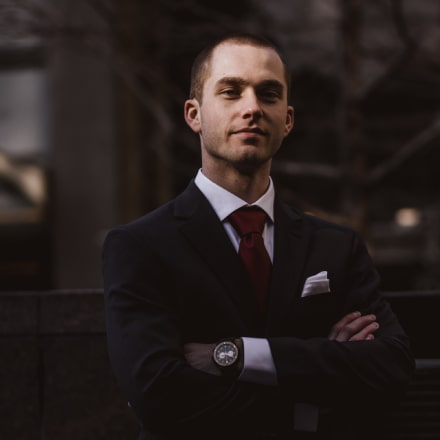
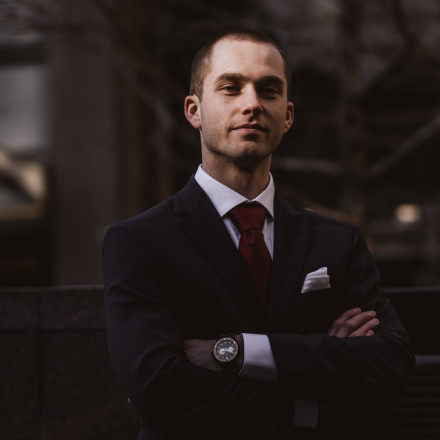
modification de toutes les photos du site en webp avec alternative jpg

diff --git a/index.html b/index.html
@@ -37,23 +37,23 @@
 		<div class="carousel-inner">
 			<div class="carousel-item active">
 				<picture>
-					<source srcset="./assets/images/slider/webp/nina-carducci-photographe-1440x665px.webp" type="image/webp">
-					<source srcset="./assets/images/slider/min/nina-carducci-photographe-1440x665px-min.jpg" type="image/jpg">
-					<img src="./assets/images/slider/min/nina-carducci-photographe-1440x665px-min.jpg" alt="Nina Carducci photographe" title="Slider cover">
+					<source srcset="./assets/images/slider/webp/nina-carducci-photographe-1920x665px.webp" type="image/webp">
+					<source srcset="./assets/images/slider/min/nina-carducci-photographe-1920x665px-min.jpg" type="image/jpg">
+					<img src="./assets/images/slider/min/nina-carducci-photographe-1920x665px-min.jpg" alt="Nina Carducci photographe" title="Slider cover">
 				</picture>			
 			</div>
 			<div class="carousel-item">
 				<picture>
-					<source srcset="./assets/images/slider/webp/photo-festival-nina-carducci-1440x665px.webp" type="image/webp">
-					<source srcset="./assets/images/slider/min/photo-festival-nina-carducci-1440x665px-min.jpg" type="image/jpg">
-					<img src="./assets/images/slider/min/photo-festival-nina-carducci-1440x665px-min.jpg" alt="Portrait festival - Nina Carducci photographe" title="Slider portrait festival">
+					<source srcset="./assets/images/slider/webp/photo-festival-nina-carducci-1920x665px.webp" type="image/webp">
+					<source srcset="./assets/images/slider/min/photo-festival-nina-carducci-1920x665px-min.jpg" type="image/jpg">
+					<img src="./assets/images/slider/min/photo-festival-nina-carducci-1920x665px-min.jpg" alt="Portrait festival - Nina Carducci photographe" title="Slider portrait festival">
 				</picture>			
 			</div>
 			<div class="carousel-item">
 				<picture>
-					<source srcset="./assets/images/slider/webp/photo-de-mariage-nina-carducci-1440x665px.webp" type="image/webp">
-					<source srcset="./assets/images/slider/min/photo-de-mariage-nina-carducci-1440x665px-min.jpg">
-					<img src="./assets/images/slider/min/photo-de-mariage-nina-carducci-1440x665px-min.jpg" alt="Photo de mariage - Nina Carducci photographe" title="Slider photo de mariage">
+					<source srcset="./assets/images/slider/webp/photo-de-mariage-nina-carducci-1920x665px.webp" type="image/webp">
+					<source srcset="./assets/images/slider/min/photo-de-mariage-nina-carducci-1920x665px-min.jpg">
+					<img src="./assets/images/slider/min/photo-de-mariage-nina-carducci-1920x665px-min.jpg" alt="Photo de mariage - Nina Carducci photographe" title="Slider photo de mariage">
 				</picture>			
 			</div>
 		</div>
@@ -86,15 +86,61 @@
 	<h3 class="title">Portfolio</h3>
 	<div class="container py-3">
 		<div class="gallery" style="display: none">
-			<img data-gallery-tag="Concert" class="gallery-item" src="./assets/images/gallery/concerts/aaron-paul-wnX-fXzB6Cw-unsplash.jpg"/>
-			<img data-gallery-tag="Entreprises" class="gallery-item" src="./assets/images/gallery/entreprise/ali-morshedlou-WMD64tMfc4k-unsplash.jpg"/>
-			<img data-gallery-tag="Entreprises" class="gallery-item" src="./assets/images/gallery/entreprise/jason-goodman-tHO1_OuKbg0-unsplash.jpg"/>
-			<img data-gallery-tag="Mariages" class="gallery-item" src="./assets/images/gallery/mariage/hannah-busing-RvF2R_qMpRk-unsplash.jpg"/>
-			<img data-gallery-tag="Portrait" class="gallery-item" src="./assets/images/gallery/portraits/ade-tunji-rVkhWWZFAtQ-unsplash.jpg"/>
-			<img data-gallery-tag="Mariages" class="gallery-item" src="./assets/images/gallery/mariage/jakob-owens-SiniLJkXhMc-unsplash.jpg"/>
-			<img data-gallery-tag="Portrait" class="gallery-item" src="./assets/images/gallery/portraits/nino-van-prattenburg--443cl1uR_8-unsplash.jpg"/>
-			<img data-gallery-tag="Concert" class="gallery-item" src="./assets/images/gallery/concerts/austin-neill-hgO1wFPXl3I-unsplash.jpg"/>
-			<img data-gallery-tag="Entreprises" class="gallery-item" src="./assets/images/gallery/entreprise/mateus-campos-felipe-Fsgzm8N0hIY-unsplash.jpg"/>
+			
+			<picture data-gallery-tag="Concert" class="gallery-item">
+				<source data-gallery-tag="Concert" class="gallery-item" srcset="./assets/images/gallery/concerts/webp/festival-de-musique-nina-carducci-440px.webp" type="image/webp">
+				<source data-gallery-tag="Concert" class="gallery-item" srcset="./assets/images/gallery/concerts/min/festival-de-musique-nina-carducci-440px-min.jpg">
+				<img data-gallery-tag="Concert" class="gallery-item" src="./assets/images/gallery/concerts/min/festival-de-musique-nina-carducci-440px-min.jpg" alt="Photo festival de musique Nina Carducci - photographe" title="Festival de musique - Nina Carducci">
+			</picture>
+
+			<picture data-gallery-tag="Entreprises" class="gallery-item">
+				<source data-gallery-tag="Entreprises" class="gallery-item" srcset="./assets/images/gallery/entreprise/webp/business-portrait-nina-carducci-440px.webp" type="image/webp">
+				<source data-gallery-tag="Entreprises" class="gallery-item" srcset="./assets/images/gallery/entreprise/min/business-portrait-nina-carducci-440px-min.jpg">
+				<img data-gallery-tag="Entreprises" class="gallery-item" src="./assets/images/gallery/entreprise/min/business-portrait-nina-carducci-440px-min.jpg" alt="Portrait entreprise d'un homme en costume de Nina Carducci - photographe" title="Portrait entreprise - Nina Carducci">
+			</picture>
+
+			<picture data-gallery-tag="Entreprises" class="gallery-item">
+				<source data-gallery-tag="Entreprises" class="gallery-item" srcset="./assets/images/gallery/entreprise/webp/portrait-femme-nina-carducci-440px.webp" type="image/webp">
+				<source data-gallery-tag="Entreprises" class="gallery-item" srcset="./assets/images/gallery/entreprise/min/portrait-femme-nina-carducci-440px-min.jpg">
+				<img data-gallery-tag="Entreprises" class="gallery-item" src="./assets/images/gallery/entreprise/min/portrait-femme-nina-carducci-440px-min.jpg" alt="Portrait entreprise d'une femme de Nina Carducci - photographe" title="Portrait corporate d'une femme - Nina Carducci">
+			</picture>
+
+			<picture data-gallery-tag="Mariages" class="gallery-item">
+				<source data-gallery-tag="Mariages" class="gallery-item" srcset="./assets/images/gallery/mariage/webp/photo-de-mariage-nina-carducci-440px.webp" type="image/webp">
+				<source data-gallery-tag="Mariages" class="gallery-item" srcset="./assets/images/gallery/mariage/min/photo-de-mariage-nina-carducci-440px-min.jpg">
+				<img data-gallery-tag="Mariages" class="gallery-item" src="./assets/images/gallery/mariage/min/photo-de-mariage-nina-carducci-440px-min.jpg" alt="Photo des mains des mariés" title="Photo mains des mariés avec alliances - Nina Carducci">
+			</picture>
+
+			<picture data-gallery-tag="Portrait" class="gallery-item">
+				<source data-gallery-tag="Portrait" class="gallery-item" srcset="./assets/images/gallery/portraits/webp/photo-portrait-nina-carducci-440px.webp" type="image/webp">
+				<source data-gallery-tag="Portrait" class="gallery-item" srcset="./assets/images/gallery/portraits/min/photo-portrait-nina-carducci-440px-min.jpg">
+				<img data-gallery-tag="Portrait" class="gallery-item" src="./assets/images/gallery/portraits/min/photo-portrait-nina-carducci-440px-min.jpg" alt="Portrait d'un homme les yeux fermés" title="Portrait d'un homme les yeux fermés - Nina Carducci">
+			</picture>
+			
+			<picture data-gallery-tag="Mariages" class="gallery-item">
+				<source data-gallery-tag="Mariages" class="gallery-item" srcset="./assets/images/gallery/mariage/webp/photo-evenementielle-nina-carducci-440px.webp" type="image/webp">
+				<source data-gallery-tag="Mariages" class="gallery-item" srcset="./assets/images/gallery/mariage/min/photo-evenementielle-nina-carducci-440px-min.jpg">
+				<img data-gallery-tag="Mariages" class="gallery-item" srcset="./assets/images/gallery/mariage/min/photo-evenementielle-nina-carducci-440px-min.jpg" alt="Photo des mariés sur la plage" title="Photo des mariés sur la plage - Nina Carducci">
+			</picture>
+			
+			<picture data-gallery-tag="Portrait" class="gallery-item">
+				<source data-gallery-tag="Portrait" class="gallery-item" srcset="./assets/images/gallery/portraits/webp/photographe-portrait-nina-carducci-440px.webp" type="image/webp">
+				<source data-gallery-tag="Portrait" class="gallery-item" srcset="./assets/images/gallery/portraits/min/photographe-portrait-nina-carducci-440px-min.jpg">
+				<img data-gallery-tag="Portrait" class="gallery-item" src="./assets/images/gallery/portraits/min/photographe-portrait-nina-carducci-440px-min.jpg" alt="Portrait d'une femme avec grillage" title="Portrait street d'une femme avec lunette - Nina Carducci">
+			</picture>
+
+			<picture data-gallery-tag="Concert" class="gallery-item">
+				<source data-gallery-tag="Concert" class="gallery-item" srcset="./assets/images/gallery/concerts/webp/photo-concert-nina-carducci-440px.webp" type="image/webp">
+				<source data-gallery-tag="Concert" class="gallery-item" srcset="./assets/images/gallery/concerts/min/photo-concert-nina-carducci-440px-min.jpg">
+				<img data-gallery-tag="Concert" class="gallery-item" src="./assets/images/gallery/concerts/min/photo-concert-nina-carducci-440px-min.jpg" alt="Photo d'un chanteur en concert Nina Carducci - photographe" title="Photo d'un chanteur sur scène - Nina Carducci">
+			</picture>
+			
+			<picture data-gallery-tag="Entreprises" class="gallery-item">
+				<source data-gallery-tag="Entreprises" class="gallery-item" srcset="./assets/images/gallery/entreprise/webp/portrait-corporate-nina-carducci-440px.webp" type="image/webp">
+				<source data-gallery-tag="Entreprises" class="gallery-item" srcset="./assets/images/gallery/entreprise/min/portrait-corporate-nina-carducci-440px-min.jpg">
+				<img data-gallery-tag="Entreprises" class="gallery-item" src="./assets/images/gallery/entreprise/min/portrait-corporate-nina-carducci-440px-min.jpg" alt="Portrait corporate d'une femme souriante de Nina Carducci - photographe" title="Portrait corporate d'une femme souriante - Nina Carducci">
+			</picture>
+		
 		</div>
 	</div>
 	<div class="quote">
@@ -166,7 +212,11 @@
 			</form>
 		</div>
 		<div class="picture right">
-			<img src="./assets/images/camera.png">
+			<picture>
+				<source srcset="./assets/images/nina-carducci-photographe-400px.webp" type="image/webp">
+				<source srcset="./assets/images/nina-carducci-photographe-400px-min.jpg">
+				<img src="./assets/images/nina-carducci-photographe-400px-min.jpg" alt="Photo d'un appareil photo reflexe" title="Nina Carducci Photographe évènementielle et portrait">
+			</picture>
 		</div>
 	</div>
 </div>
